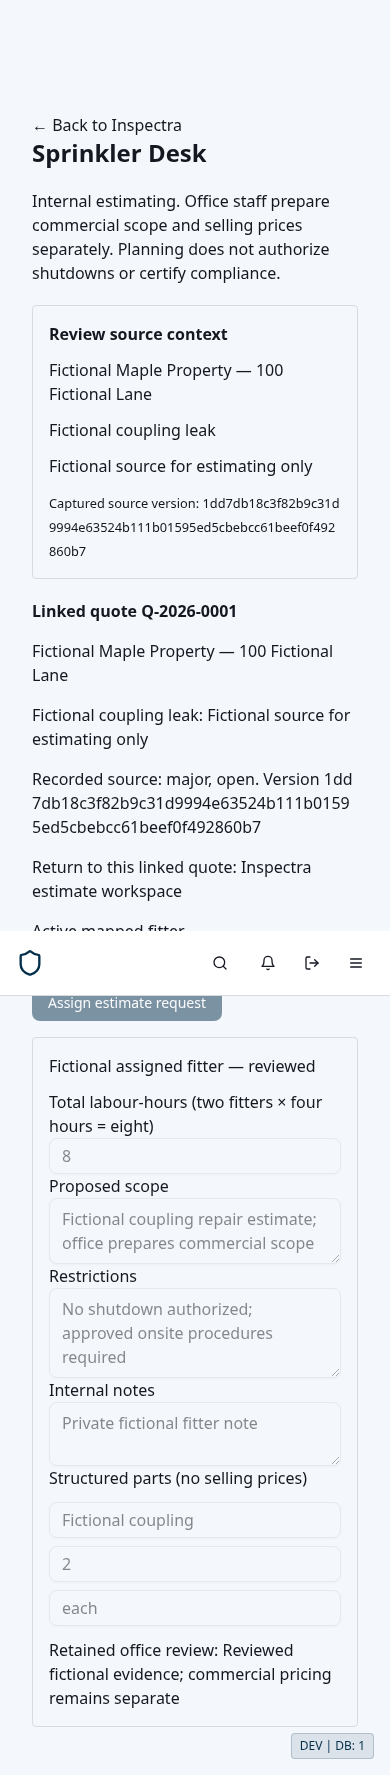
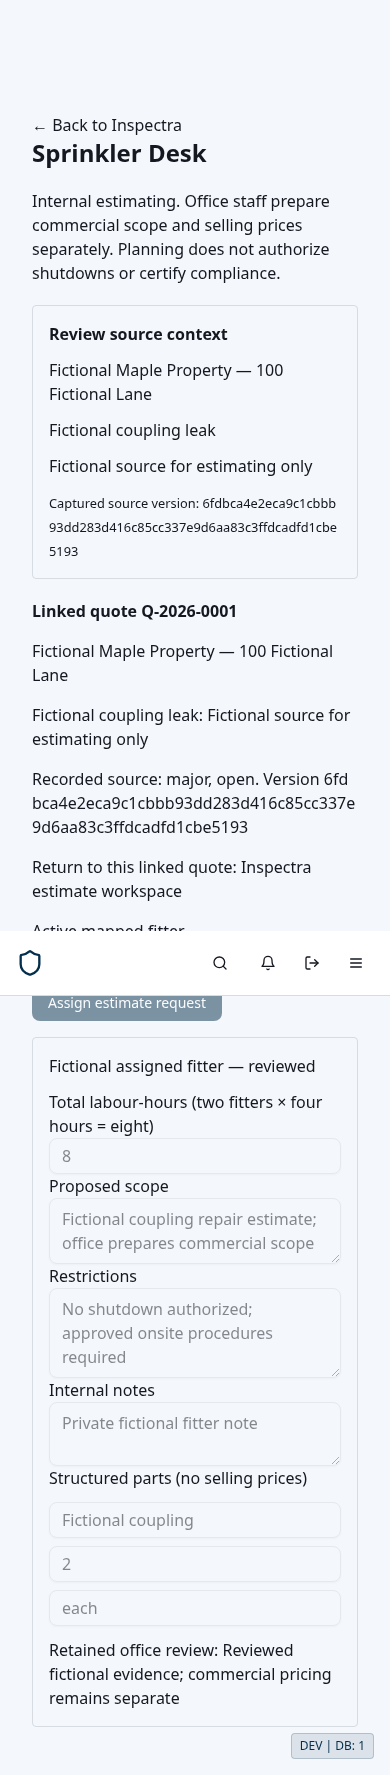
fix: show retained source history read-only after external changes

diff --git a/client/src/pages/SprinklerDesk.tsx b/client/src/pages/SprinklerDesk.tsx
@@ -131,7 +131,9 @@ function Desk({
           <p className="whitespace-pre-wrap">
             {source.data.source.deficiency.description}
           </p>
-          <small className="break-all">Captured source version: {source.data.source.version}</small>
+          <small className="break-all">
+            Captured source version: {source.data.source.version}
+          </small>
           {!data && (
             <>
               <label className="block">
@@ -162,7 +164,11 @@ function Desk({
                 </label>
               )}
               <Button
-                disabled={reviewedHash !== source.data.hash || open.isPending}
+                disabled={
+                  reviewedHash !== source.data.hash ||
+                  open.isPending ||
+                  (!!quoteId && quoteVersion.trim() === "")
+                }
                 onClick={() =>
                   open.mutate({
                     ...ids,
@@ -187,7 +193,15 @@ function Desk({
       {view.error && <p role="status">{view.error.message}</p>}
       {data && (
         <section className="space-y-4">
-          <h2 className="font-bold break-all">Linked quote {data.quoteNumber}</h2>
+          <h2 className="font-bold break-all">
+            Linked quote {data.quoteNumber}
+          </h2>
+          {data.sourceStale && (
+            <p role="alert">
+              Inspectra source changed. This retained estimate is read-only;
+              office reconciliation is required before a new request.
+            </p>
+          )}
           <p>
             {data.source.property.name} — {data.source.property.address}
           </p>
@@ -196,7 +210,8 @@ function Desk({
           </p>
           <p>
             Recorded source: {data.source.deficiency.severity},{" "}
-            {data.source.deficiency.status}. Version <span className="break-all">{data.source.version}</span>
+            {data.source.deficiency.status}. Version{" "}
+            <span className="break-all">{data.source.version}</span>
           </p>
           <p>
             Return to this linked quote:{" "}
@@ -222,7 +237,7 @@ function Desk({
                 </select>
               </label>
               <Button
-                disabled={!fitter || command.isPending}
+                disabled={data.sourceStale || !fitter || command.isPending}
                 onClick={() =>
                   command.mutate({
                     ...ids,

diff --git a/server/ewfIntegration.ts b/server/ewfIntegration.ts
@@ -118,6 +118,7 @@ export type EwfEstimate = {
   reviewable: boolean;
 };
 export type EwfView = {
+  sourceStale: boolean;
   source: {
     version: string;
     property: { name: string; address: string; city: string };

diff --git a/docs/integrations/EWF_SPRINKLER_DESK.md b/docs/integrations/EWF_SPRINKLER_DESK.md
@@ -174,3 +174,14 @@ and draft PR publication state belong in the PR, not inferred from local results
 Final adapter checks also verify atomic quote/property/deficiency/link rollback
 on audit failure, safe retry and reuse of the existing EWF quote-number policy.
 Work-order numbering remains untouched.
+
+Changed Inspectra source remains readable as retained original evidence with an
+explicit stale/read-only flag; assignment/save/submit/review reject it. The
+adapter never rebinds the retained snapshot to current source facts.
+
+Existing Inspectra inspection, quote, work-order, invoice and inventory records
+retain their current Inspectra ownership. EWF authority applies to its own
+operational/financial records; this release does not merge, copy or total the two
+ledgers. Historical consolidation, duplicate matching and shared reporting need
+separate reviewed ownership/reconciliation decisions. A configured tenant cannot
+be relabeled after retained property mappings exist.
